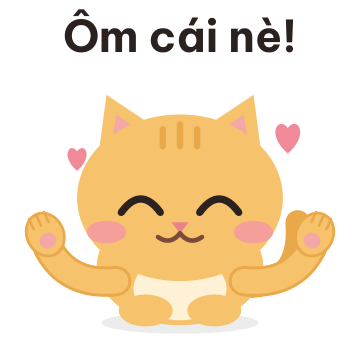
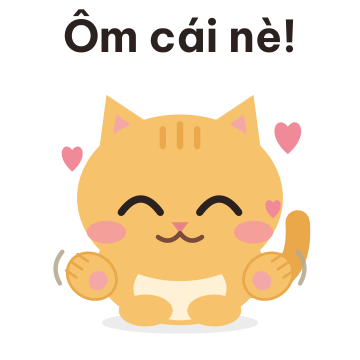
Cute stickers, second pass: no arms (the author's rule); hug, cheer, flower, pout and birthday redrawn

diff --git a/docs/plans/assets/stickers/build_stickers.py b/docs/plans/assets/stickers/build_stickers.py
@@ -602,11 +602,7 @@ with open(os.path.join(V1_DIR, "manifest.json"), "w", encoding="utf-8", newline=
 print("set-v1:", len(stickers_json), "stickers x", len(LANGS), "languages in", V1_DIR)
 
 # ---- pack Cute (docs/plans/sticker-packs-three-categories.md): ten new stickers next to ten of the current ones --------------
-def arm(d, w=10):
-    """A fur arm with a thin darker edge (sticker art)."""
-    return stroke_path(d, DARK, w + 2.4) + stroke_path(d, FUR, w)
-
-
+# No arms, ever (the author, 2026-11-12): gestures are paws on the body, props, marks or the face.
 def fist(x, y):
     o = f'<ellipse cx="{f(x)}" cy="{f(y)}" rx="8.5" ry="7.5" fill="{FUR}" stroke="{DARK}" stroke-width="1.1"/>'
     for dy in (-2.5, 1, 4.5):
@@ -619,8 +615,9 @@ def heart(x, y, k, col="#f08a99"):
 
 
 def cute_hug():
-    return (cat(STAND_F, dict(LOOK["purr"], roll=0, dy=0, cheek=0.95)) + arm("M34 98 Q14 100 6 84") + arm("M86 98 Q106 100 114 84")
-            + paw(5, 79, 7.5, 9, -25, True) + paw(115, 79, 7.5, 9, 25, True) + heart(18, 50, 1.0) + heart(104, 42, 1.3))
+    """Open for a hug: two stubby paws at the sides of the body, pads toward us, and hearts. No arms."""
+    return (cat(STAND_F, dict(LOOK["purr"], roll=0, dy=0, cheek=0.95)) + paw(24, 96, 9, 10.5, -55, True) + paw(96, 96, 9, 10.5, 55, True)
+            + arcs("M12 86 q-5 6 -1 13", "M108 86 q5 6 1 13") + heart(16, 50, 1.1) + heart(104, 42, 1.4) + heart(98, 70, 0.8))
 
 
 def cute_heart_eyes():
@@ -634,15 +631,19 @@ def cute_miss_you():
 
 
 def cute_cheer():
-    return (cat(STAND_F, dict(LOOK["happy"], roll=4, dy=0, cheek=0.9)) + arm("M84 98 L100 66") + fist(102, 58)
-            + stroke_path("M92 44 l-4 -6", "#ffd166", 2.4) + stroke_path("M104 40 l0 -8", "#ffd166", 2.4) + stroke_path("M116 46 l5 -6", "#ffd166", 2.4)
-            + star(18, 52, 6, "#ffd166"))
+    """Cheering someone on: a red headband with a knot, bright eyes, two small fists at the chest, sparks. No arms."""
+    band = ('<path d="M20 50 Q60 36 100 50 L100 57 Q60 43 20 57Z" fill="#e5484d"/>'
+            '<path d="M99 51 l13 -6 l-2 8z M99 55 l12 6 l-7 3z" fill="#e5484d"/><circle cx="99" cy="53.5" r="3.2" fill="#c93a40"/>')
+    return (cat(STAND_F, dict(LOOK["rest"], wide=0.4, mouth="open", cheek=0.9, roll=0)) + band + fist(50, 99) + fist(70, 99)
+            + stroke_path("M38 88 l-6 -5", "#ffd166", 2.4) + stroke_path("M82 88 l6 -5", "#ffd166", 2.4) + star(16, 40, 6, "#ffd166") + star(106, 78, 5, "#ffd166"))
 
 
 def cute_flower():
-    petals = "".join(f'<circle cx="{104 + 5.2 * math.cos(a * math.pi / 2.5)}" cy="{44 + 5.2 * math.sin(a * math.pi / 2.5)}" r="4.3" fill="#f4a7a7"/>' for a in range(5))
-    return (cat(STAND_F, dict(LOOK["happy"], roll=3, dy=0, cheek=0.9)) + arm("M82 98 L98 88") + stroke_path("M101 84 L104 52", "#7cc17c", 2.4)
-            + paw(101, 86, 6.5, 7.5, 10, True) + petals + '<circle cx="104" cy="44" r="3.2" fill="#ffd166"/>')
+    """Congratulations: a flower held at the chest with both paws. No arms."""
+    petals = "".join(f'<circle cx="{f(78 + 6.2 * math.cos(a * math.pi / 2.5))}" cy="{f(88 + 6.2 * math.sin(a * math.pi / 2.5))}" r="5.2" fill="#f08a99"/>' for a in range(5))
+    return (cat(STAND_F, dict(LOOK["happy"], roll=-3, dy=0, cheek=0.9)) + stroke_path("M60 106 Q66 98 76 91", "#7cc17c", 2.6)
+            + petals + '<circle cx="78" cy="88" r="3.4" fill="#ffd166"/>' + paw(53, 103, 6.5, 8, 15) + paw(66, 104, 6.5, 8, -15)
+            + star(18, 46, 5, "#ffd166") + star(104, 44, 6, "#f4a7a7"))
 
 
 def cute_birthday():
@@ -671,9 +672,11 @@ def cute_pat():
 
 
 def cute_pout():
-    puff = ell(19, 78, 11, 10, FUR) + ell(101, 78, 11, 10, FUR)  # cheeks that bulge past the head's edge (drawn behind the head)
-    blush = ell(28, 80, 8, 5, "#f59e9e", 0, 0.85) + ell(92, 80, 8, 5, "#f59e9e", 0, 0.85)
-    return puff + cat(STAND_F, dict(LOOK["rest"], lid=0.8, gx=-6, gy=0, roll=-6, mouth="flat", cheek=0.4)) + blush
+    """A cute sulk: both cheeks puffed out evenly (the head is not tilted), eyes aside, a small huff mark."""
+    puff = ell(19, 78, 11, 10, FUR) + ell(101, 78, 11, 10, FUR)  # cheeks that bulge past the head's edge (drawn over the head edge and the tail, same fur colour)
+    blush = ell(26, 80, 8, 5, "#f59e9e", 0, 0.85) + ell(94, 80, 8, 5, "#f59e9e", 0, 0.85)
+    huff = stroke_path("M100 44 l6 -4 M104 52 l8 -1", "#b9a98f", 2)
+    return cat(STAND_F, dict(LOOK["rest"], lid=0.8, gx=-6, gy=0, roll=0, mouth="flat", cheek=0.0)) + puff + blush + huff
 
 
 CUTE_NEW = [
@@ -682,7 +685,7 @@ CUTE_NEW = [
     ("Nhớ bạn!", cute_miss_you, {}),
     ("Cố lên nha!", cute_cheer, {}),
     ("Chúc mừng nha!", cute_flower, {}),
-    ("Sinh nhật vui!", cute_birthday, dict(scale=2.2, dy=26)),
+    ("Sinh nhật vui!", cute_birthday, dict(scale=2.0, dy=42)),
     ("Meo~", cute_meow, {}),
     ("Ú òa!", cute_peekaboo, {}),
     ("Xoa đầu cái!", cute_pat, {}),

diff --git a/docs/plans/sticker-packs-three-categories.md b/docs/plans/sticker-packs-three-categories.md
@@ -2,6 +2,8 @@
 
 Status: **approved by Vinh on 2026-11-12 (the lists of section 3, order Cute first). The 10 new Cute stickers are drawn as a first pass (2026-11-12): [`assets/stickers/pack-cute-draft/`](assets/stickers/pack-cute-draft/), `new-01.png` to `new-10.png` and [`contact_sheet.png`](assets/stickers/pack-cute-draft/contact_sheet.png), which shows them under the ten current Cute stickers. Friends and Office are not drawn yet.** Earlier: proposal 2026-11-12, nothing new drawn. Vinh asked to sort the 20 stickers now on the website (`assets/stickers/set-v1/`, see [`sticker-set-v0.md`](sticker-set-v0.md)) into categories, to add two lists next to the office one, **Dễ thương (cute)** and **Bạn bè (friends)**, all in the voice of a cheeky ("lầy lội") cat, and to complete each list to 20. The office pack was already proposed in [`sticker-pack-2-office.md`](sticker-pack-2-office.md); this document replaces its list (one sticker moves in from the current set, one leaves, see section 4). Rules as before: PNG 360 x 360, transparent, flat, at most 4 words per frame, nothing Zalo bans, the charter (tease the situation, not the person), CC BY 4.0.
 
+**Rule from Vinh (2026-11-12): never draw arms.** Every sticker drawn with an arm stroke looked wrong. A gesture is shown with paws that sit on or at the edge of the body, a prop, a mark (sparks, arcs) or the face alone; an idea that needs a reaching arm is redesigned. The descriptions in section 3 that mention arms or raised paws on arms are to be read with this rule. Second pass of the ten Cute stickers (same day): the hug is two stubby paws at the sides with hearts; "Cố lên nha!" is a red headband with two small fists at the chest; "Chúc mừng nha!" holds the flower at the chest; "Dỗi nè." has both cheeks puffed evenly; "Sinh nhật vui!" is smaller and lower, clear of the text. **Three stickers of the current set on the website still have a short arm stroke ("Làm chung nhé?", "Giỏi quá.", "Ok nè!"); whether to redraw them is Vinh's call.**
+
 ## 1. The three categories
 | Category | What it is for | Voice | Faces and bodies it uses |
 |---|---|---|---|
